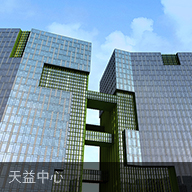
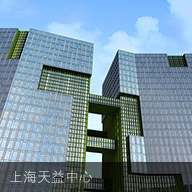
零碎小修改

diff --git a/app/controllers/shejixiangmu_controller.rb b/app/controllers/shejixiangmu_controller.rb
@@ -151,7 +151,7 @@ class ShejixiangmuController < ApplicationController
 ', 'num_array' => (1..8).to_a, 'image_path' => '/detail/9余杭双溪径山园二期/',
       },
       '10' => {
-        'title' => '项目名称 杭州余杭创新基地',
+        'title' => '项目名称 杭州余杭创新基地人才公寓',
         'text' => '
 项目规模 占地51686.8平方米、建筑面积117416.2平方米
 项目状况 在建
@@ -429,7 +429,7 @@ class ShejixiangmuController < ApplicationController
     },
     'bangongyanfa' => {
       '1' => {
-        'title' => '项目名称 壹向大楼（建筑）',
+        'title' => '项目名称 壹向大楼（建筑、室内、设计管理）',
         'text' => '
 项目规模 占地3177平方米，建筑面积13651.5平方米
 项目状况 建成
@@ -469,7 +469,7 @@ class ShejixiangmuController < ApplicationController
 ', 'num_array' => (1..13).to_a, 'image_path' => '/detail/5杭州徐龙国际广场/',
       },
       '6' => {
-        'title' => '项目名称 天益中心（建筑）',
+        'title' => '项目名称 上海天益中心（建筑）',
         'text' => '
 项目规模 占地21397平方米，建筑面积106510平方米
 项目状况 方案
